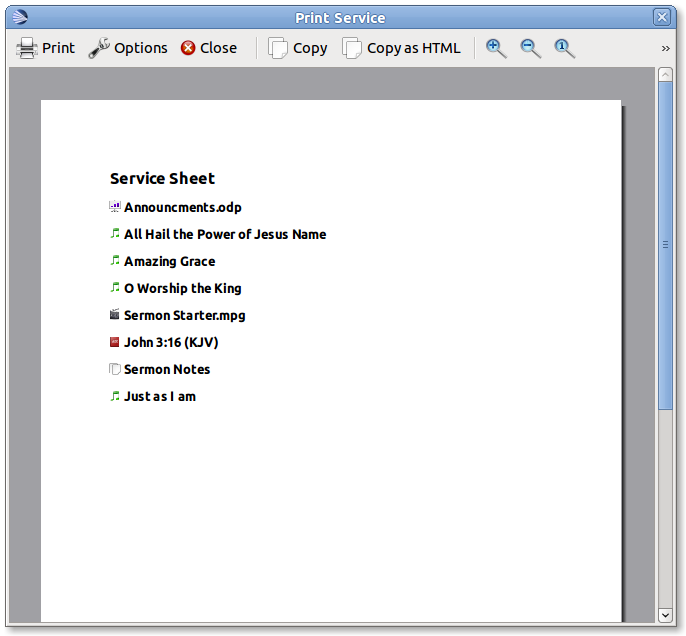
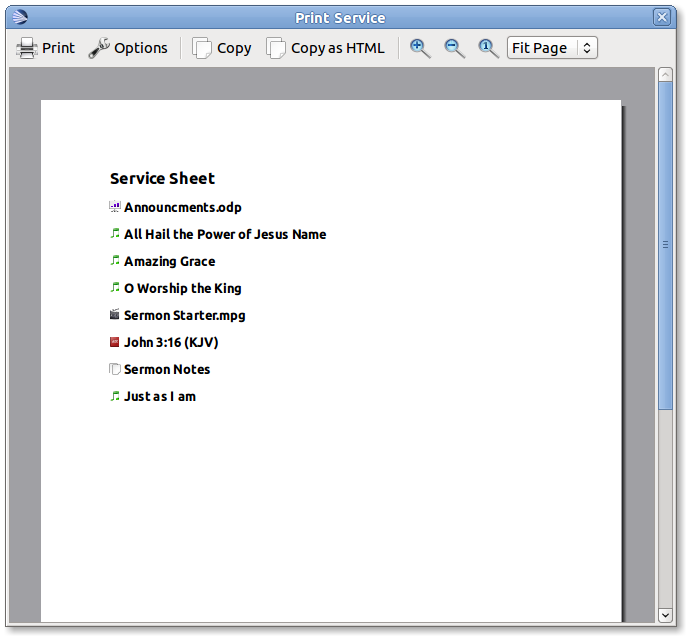
updates to refelect recent changes in the print service feature

Changed region(s): [[0.2449, 0.0597, 0.8571, 0.0896]]

diff --git a/manual/source/print_service.rst b/manual/source/print_service.rst
@@ -27,9 +27,6 @@ Toolbar
   This gives you a series of ways to customize the service order before
   printing. See the section on :ref:`options` for more information.
 
-|closebutton| **Close**
-  Closes the print service window.
-
 |copybutton| **Copy** 
   Copy the text of the preview window to your clipboard. You can then paste the
   text into other documents or applications.
@@ -333,8 +330,6 @@ This service_print.css assumes the slide text will not be included.::
 .. |printbutton| image:: pics/general_print.png
 
 .. |optionbutton| image:: pics/system_configure.png
-
-.. |closebutton| image:: pics/system_close.png
 
 .. |copybutton| image:: pics/system_edit_copy.png
 
